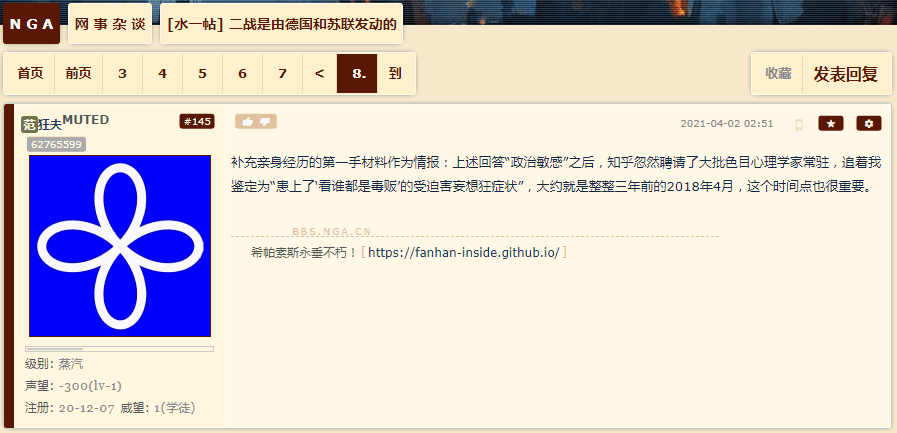
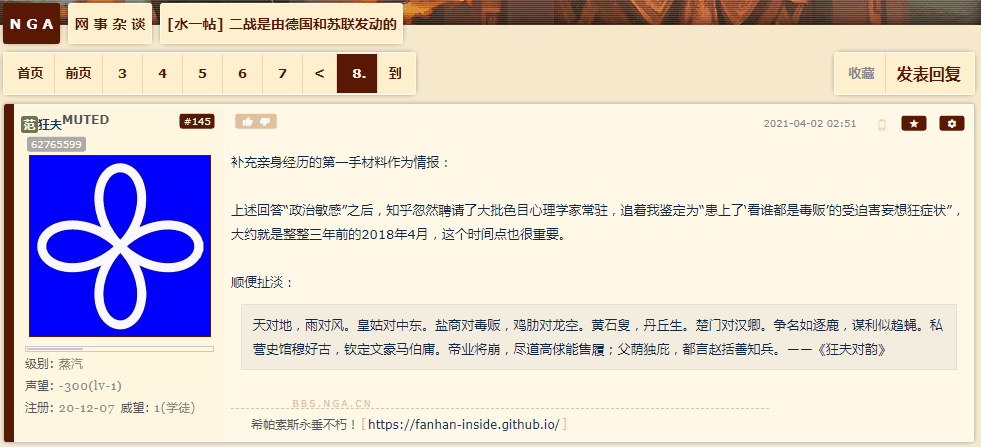
修订
Former-commit-id: 188c455e264b48db96646ade01246bef3e303f68

Changed region(s): [[0.0, 0.0, 1.0, 0.9908], [0.2497, 0.9007, 0.5931, 0.9607]]

diff --git a/at_douban/diary/20210331-001.html b/at_douban/diary/20210331-001.html
@@ -29,7 +29,7 @@
         <p>长话短说，强调过家贼是我这里搜集情报的最准确来源，长期的生产生活斗争实践已经验证过，几乎与偏殿主席台前三排的动向壹壹对应，并且时效性要超过市面上色目情报掮客，更是比「权威媒体」领先至少一个交易日。</p>
         <p>上次家贼上门骚扰，还是在<span class="onum">3</span>月<span class="onum">17</span>日，具体情况是特意找到正在馆子酗酒的我，手持两袋面包口称「你吃一个我吃一个」。而经历过四十余年迷宫地下城恶人谷水深火热考验的我，觉悟和警惕性已经超乎记忆只有七秒钟的人民群众之想像了，直接反问「你想吃什么，给我剩下什么」。然后家贼把小号的「相思红豆面包」推给我，坐在对面把大号的「奶黄面包」掰下一块吃掉大摇大摆走人。我知道肯定会出事，晚上等着看热闹，果不其然看到了「李亚鹏破产」相关情报。</p>
         <p>再往前，就是以前提到的「家贼预期寿命指数」，前年十月家贼破门而入问我「阅兵式看了没有」然后口称「咱们现在今非昔比啦」，没过多久就破门而入质问「你有身份证么」。按照市面上色目情报掮客炒作的文艺理论，尤其是博导学家叫嚣的「双胞胎兄弟」「替身演员」「影武者」套路，结合楼上斯塔西特务之正反馈，早就认定了「好事绝对轮不到我」的放诸四海而皆准的颠扑不破的客观规律。于是判断，所谓「本尊」已经认定我中华兲嘲上国前途无量，于是决定把我撵到「对立面」去负责扮白脸唱双簧。</p>
-        <p>这个时间点，也就是九省通衢遭瘟前夕，色目情报掮客到处宣扬「好起来力」「大的要来力」的时候，按照耍钱的新浪或曰后浪的话语体系，是「利好我中华兲嘲上国」的。</p>
+        <p>这个时间点，也就是九省通衢遭瘟前夕，色目情报掮客到处宣扬「好起来力」「大的要来力」的时候，按照耍钱的<ruby>新浪<rt lang="ja">シナ</rt></ruby>或曰后浪的话语体系，是「利好我中华兲嘲上国」的。</p>
         <p>然后坚持一年，家贼不说实话只是唠叨叨叨瞎鸡巴忙活，我也就是随口应付，死撑。</p>
         <p>到了今年初美利坚国会纵火案之后，家贼情绪逐步焦躁，肉眼可见前倨后恭，我以油盐不进软硬不吃的态度应付，能体会到其恼羞成怒气急败坏的表现。于是判断出幕后黑手并非市面上伪装成诡辩唯物主义者的贼秃牛鼻子神棍大忽悠叫嚣「没什么自由意志，中央情报局已经钦定了」那样一切尽在掌握中。</p>
         <p>再往后，又拿着我的身份证「代办」这个那个了。这时候判断，「双胞胎兄弟」肯定已经站队到境外，至少是「拆墙派」那边，把钦定输家的位置留给我。于是判断，当前局势「利空我中华兲嘲上国」，不是莫名其妙噗嗤一声完蛋，就是苟延残喘焦头烂额。</p>

diff --git a/at_douban/broadcast/20210402-001.html b/at_douban/broadcast/20210402-001.html
@@ -55,6 +55,10 @@
             <header class="myself"><abbr class="myself">范狂夫</abbr><time>2021-04-02 02:51</time></header>
             <p>补充亲身经历的第一手材料作为情报：</p>
             <p>上述回答“<span class="dot">政治敏感</span>”之后，知乎忽然聘请了大批色目心理学家常驻，追着我鉴定为“患上了‘看谁都是毒贩’的受迫害妄想狂症状”，大约就是整整三年前的<span class="onum">2018</span>年<span class="onum">4</span>月，这个时间点也很重要。</p>
+            <p>顺便扯淡：</p>
+            <blockquote class="inside">
+                <p>天对地，雨对风。皇姑对中东。盐商对毒贩，鸡肋对龙空。黄石叟，丹丘生。楚门对汉卿。争名如逐鹿，谋利似趋蝇。私营史馆穆好古，钦定文豪马伯庸。帝业将崩，尽道高俅能售履；父荫独庇，都言赵括善知兵。——《狂夫对韵》</p>
+            </blockquote>
         </article>
     </main>
     <div class="signature">
